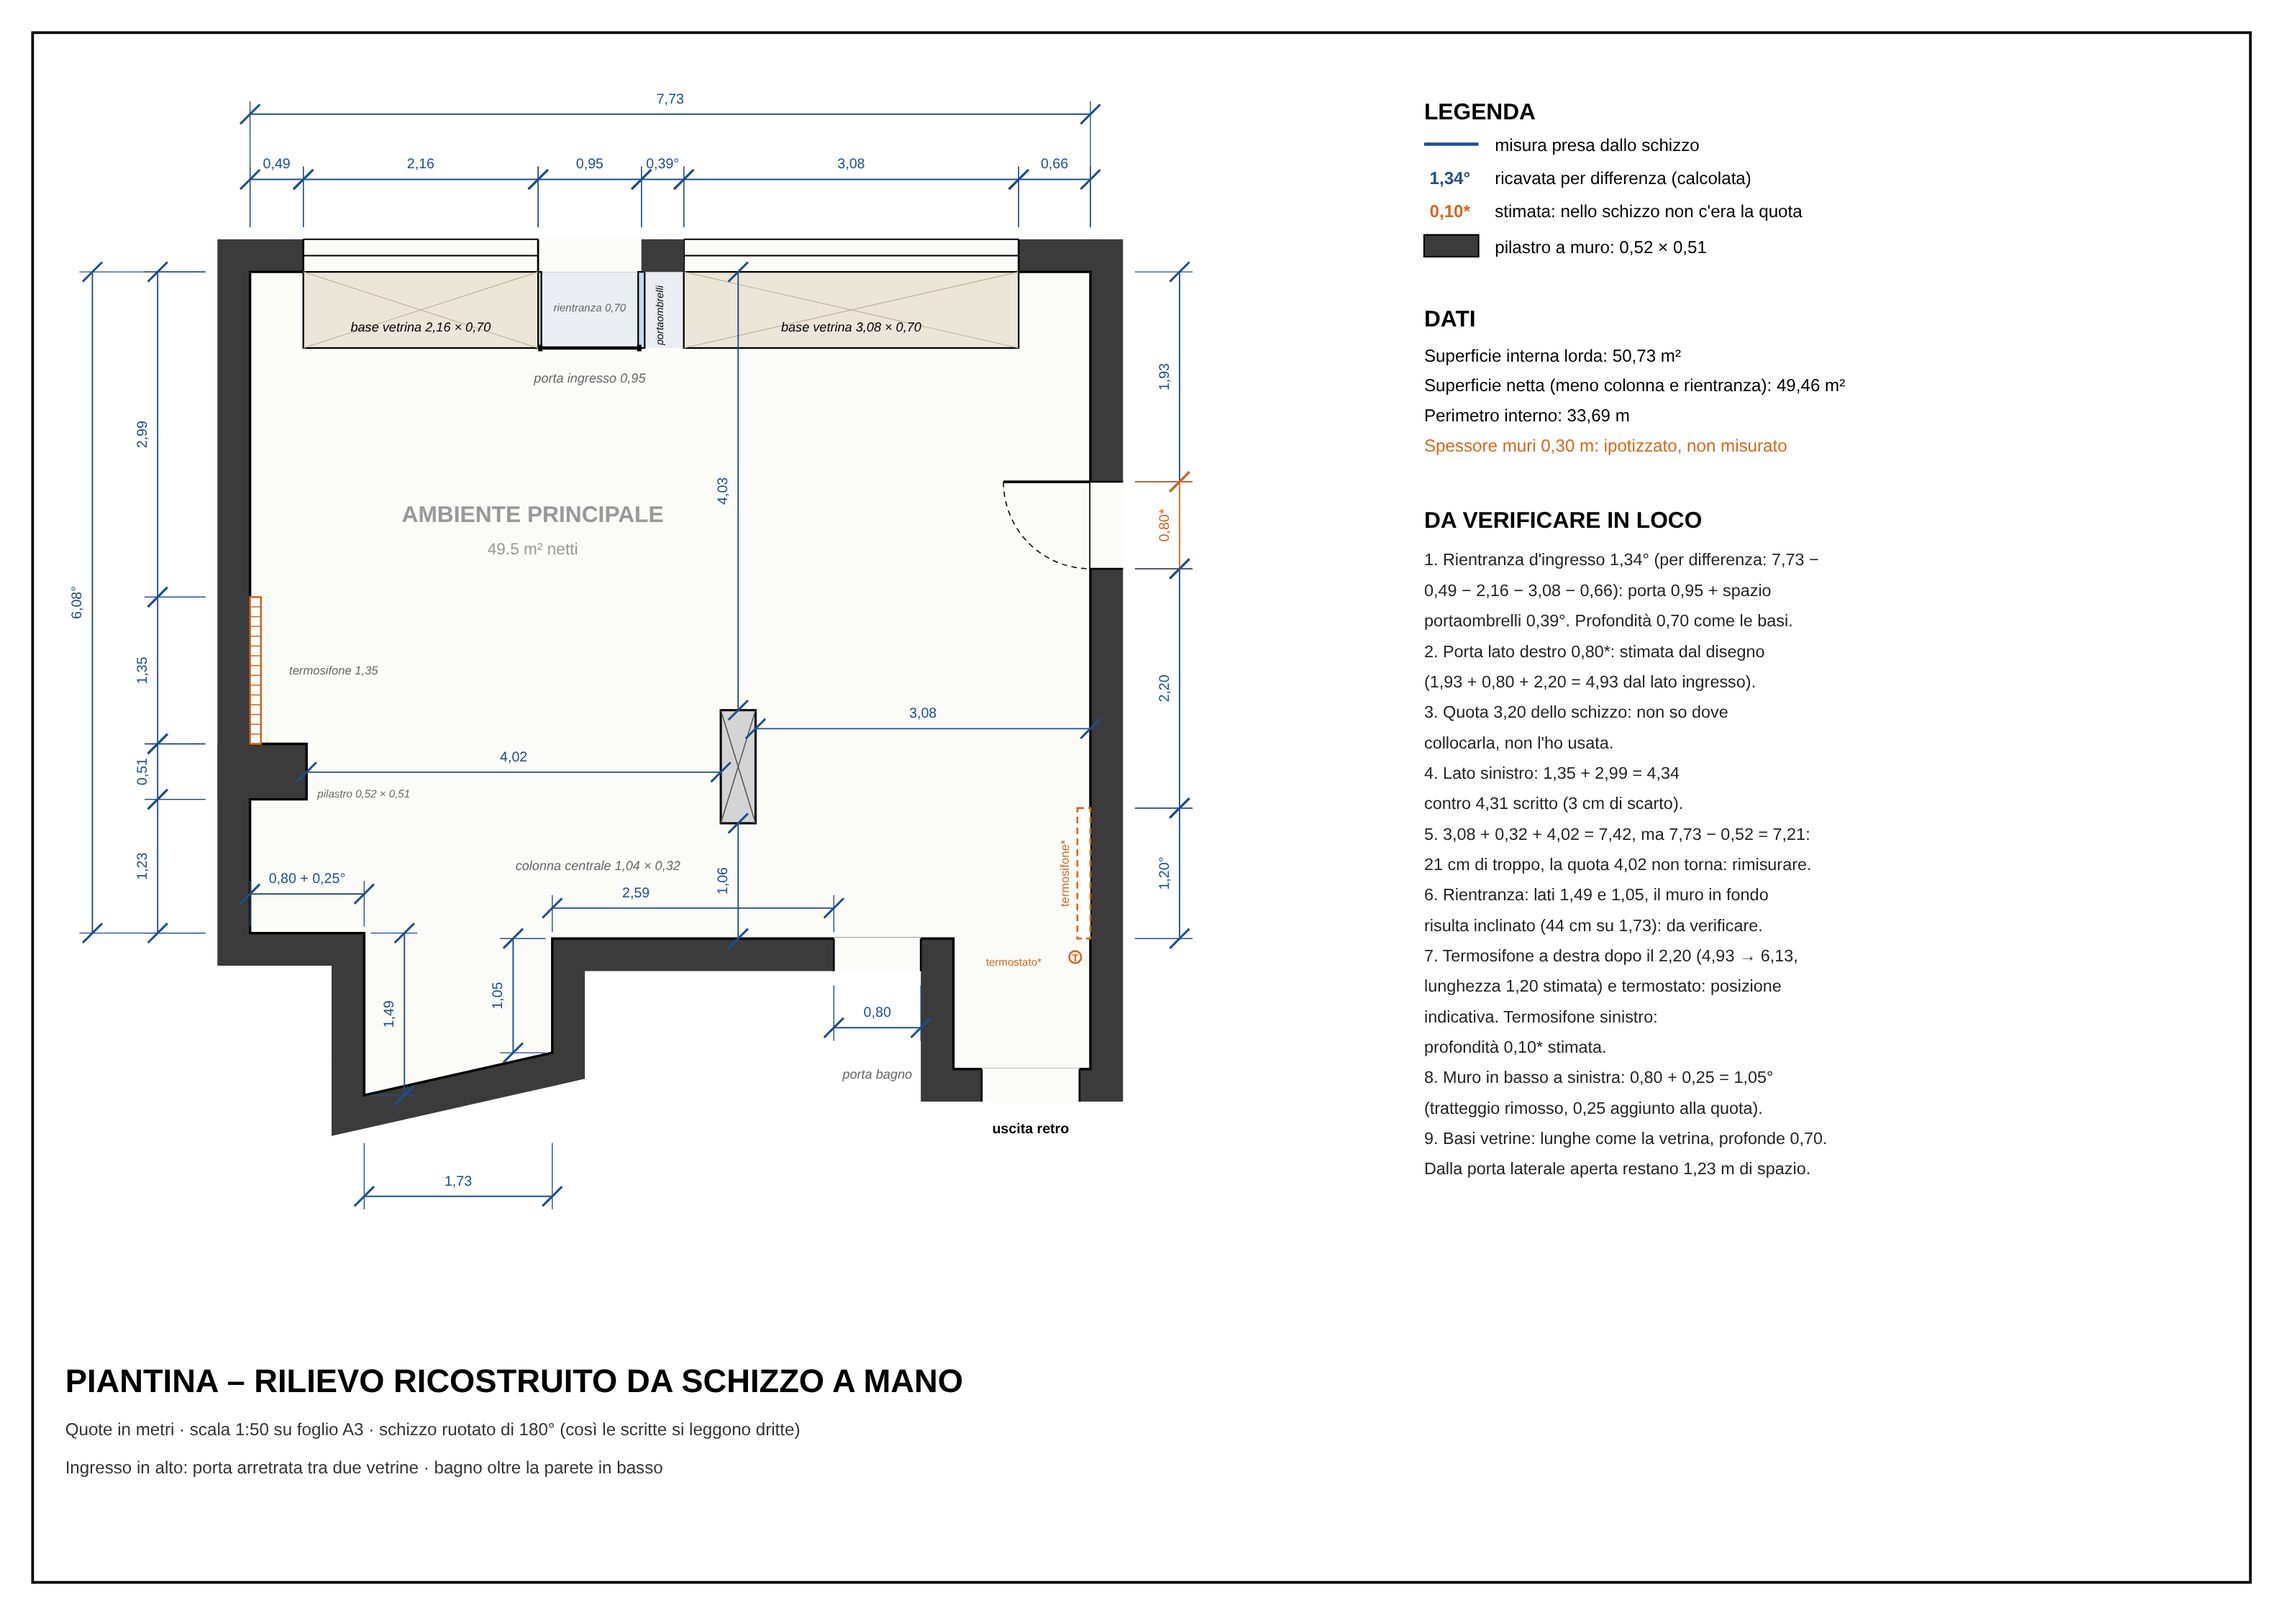
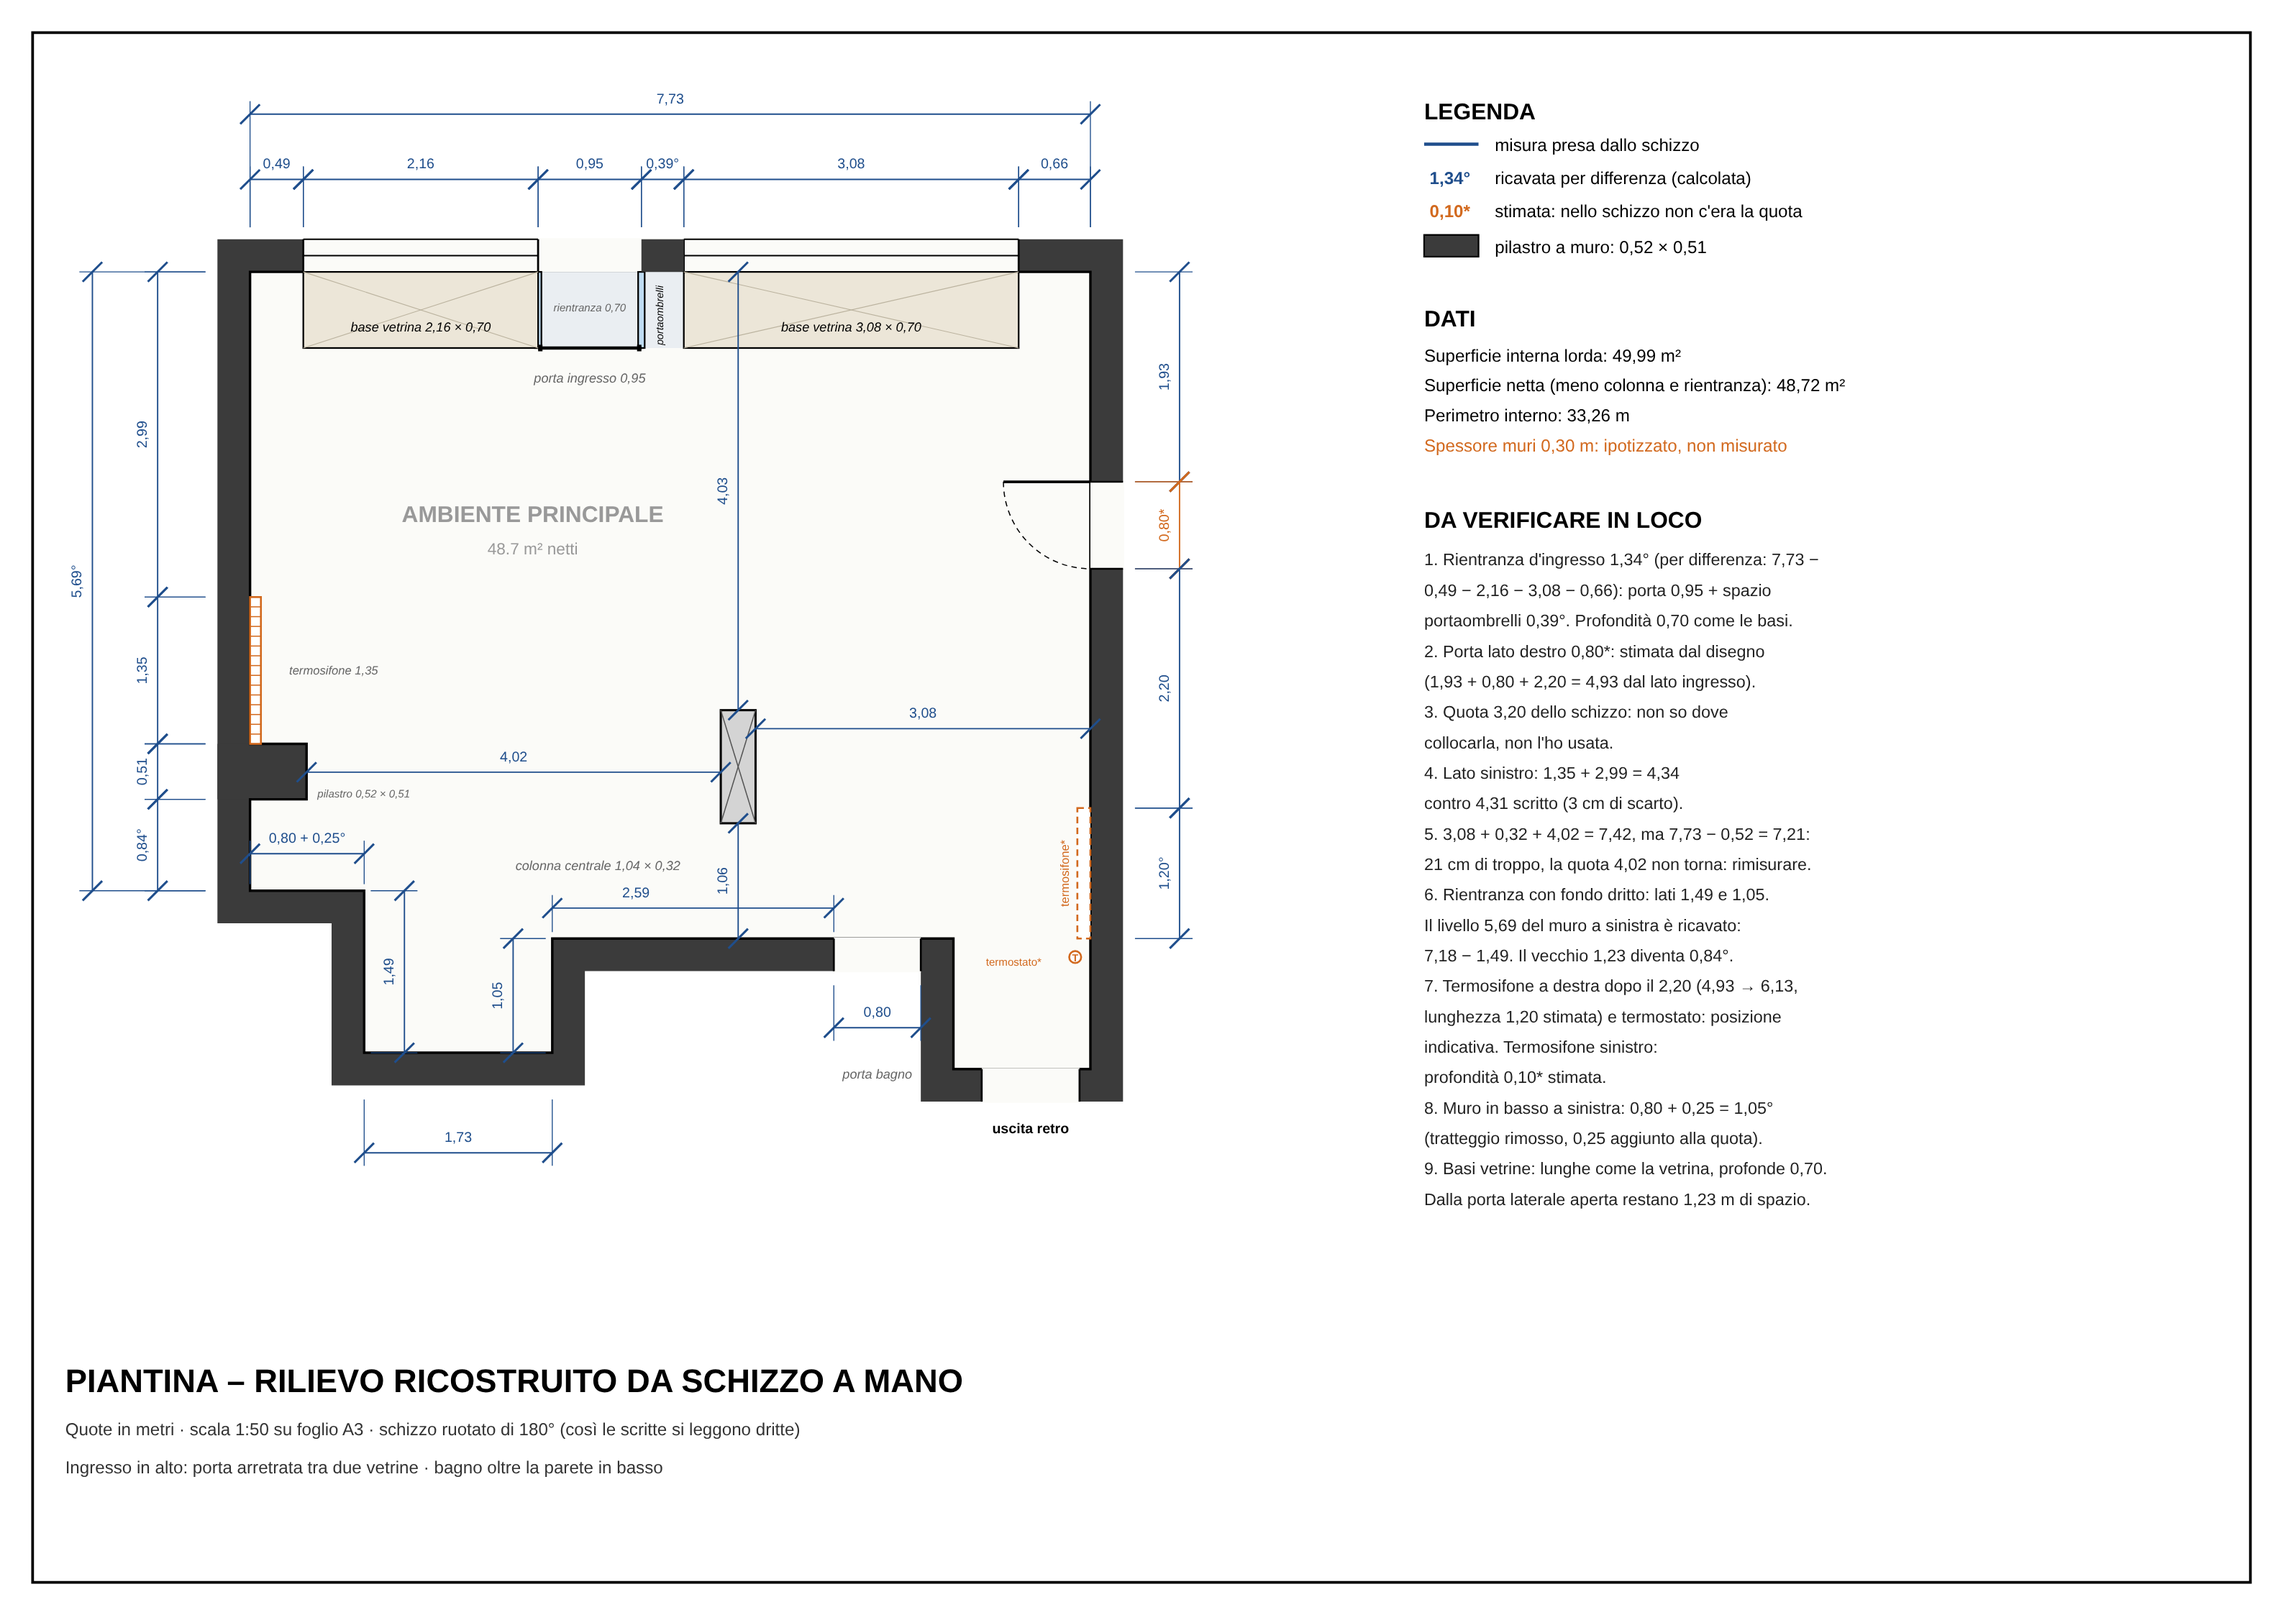
Fondo della rientranza dritto
Claude-Session: https://claude.ai/code/session_012mEpG2XJd9CwTCZtepJEcC

Changed region(s): [[0.6238, 0.5298, 0.811, 0.748], [0.1248, 0.6233, 0.2495, 0.7168], [0.0936, 0.4987, 0.1871, 0.6233]]

diff --git a/piantina/genera_piantina.py b/piantina/genera_piantina.py
@@ -84,8 +84,8 @@ poly = [
     (7.73, 7.33),                          # parete lato destro fino in fondo alla nicchia
     (6.47, 7.33), (6.47, 6.13),            # nicchia in basso a destra
     (2.78, 6.13),                          # parete lato bagno (2,59 + porta bagno + muretto)
-    (2.78, 7.18), (1.05, 7.57),            # rientranza 1,05 / 1,73 / 1,49
-    (1.05, 6.08), (0.00, 6.08),            # muro piano (tratteggio rimosso): 0,80 + 0,25 = 1,05
+    (2.78, 7.18), (1.05, 7.18),            # rientranza con fondo dritto: 1,05 / 1,73 / 1,49
+    (1.05, 5.69), (0.00, 5.69),            # muro piano (tratteggio rimosso): 0,80 + 0,25 = 1,05
     (0.00, 4.85), (0.52, 4.85),            # pilastro a muro: spessore 0,52 x lunghezza 0,51
     (0.52, 4.34), (0.00, 4.34),
 ]
@@ -213,9 +213,9 @@ for (a, b, lab, k) in [(0, 1.93, "1,93", "m"), (1.93, 2.73, "0,80*", "e"), (2.73
 
 # lato sinistro
 xl = -0.85
-for (a, b, lab) in [(0, 2.99, "2,99"), (2.99, 4.34, "1,35"), (4.34, 4.85, "0,51"), (4.85, 6.08, "1,23")]:
+for (a, b, lab) in [(0, 2.99, "2,99"), (2.99, 4.34, "1,35"), (4.34, 4.85, "0,51"), (4.85, 5.69, "0,84°")]:
     dim_v(a, b, xl, lab, xobj=-T - 0.05)
-dim_v(0, 6.08, -1.45, "6,08°", xobj=-T - 0.05)
+dim_v(0, 5.69, -1.45, "5,69°", xobj=-T - 0.05)
 
 # interno: pilastro e distanze
 dim_h(4.65, W, 4.20, "3,08")
@@ -224,13 +224,13 @@ dim_v(0.0, 4.03, 4.49, "4,03")
 dim_v(5.07, 6.13, 4.49, "1,06")
 # colonna lato sinistro: sporgenza 0,25
 # 0,80 e 2,59 lungo il muro in alto
-dim_h(0.0, 1.05, 5.72, "0,80 + 0,25°", yobj=6.08)
+dim_h(0.0, 1.05, 5.35, "0,80 + 0,25°", yobj=5.69)
 dim_h(2.78, 5.37, 5.85, "2,59", yobj=6.13, txt_x=3.55)
 
 # rientranza (1,49 / 1,05 / 1,73)
-dim_v(6.08, 7.57, 1.42, "1,49", xobj=1.05)
+dim_v(5.69, 7.18, 1.42, "1,49", xobj=1.05)
 dim_v(6.13, 7.18, 2.42, "1,05", xobj=2.78)
-dim_h(1.05, 2.78, 8.50, "1,73", yobj=7.95)
+dim_h(1.05, 2.78, 8.10, "1,73", yobj=7.55)
 
 # porta bagno e nicchia (stima)
 dim_h(5.37, 6.17, 6.95, "0,80", yobj=6.5)
@@ -271,8 +271,9 @@ notes = [
     "    contro 4,31 scritto (3 cm di scarto).",
     "5. 3,08 + 0,32 + 4,02 = 7,42, ma 7,73 − 0,52 = 7,21:",
     "    21 cm di troppo, la quota 4,02 non torna: rimisurare.",
-    "6. Rientranza: lati 1,49 e 1,05, il muro in fondo",
-    "    risulta inclinato (44 cm su 1,73): da verificare.",
+    "6. Rientranza con fondo dritto: lati 1,49 e 1,05.",
+    "    Il livello 5,69 del muro a sinistra è ricavato:",
+    "    7,18 − 1,49. Il vecchio 1,23 diventa 0,84°.",
     "7. Termosifone a destra dopo il 2,20 (4,93 → 6,13,",
     "    lunghezza 1,20 stimata) e termostato: posizione",
     "    indicativa. Termosifone sinistro:",
